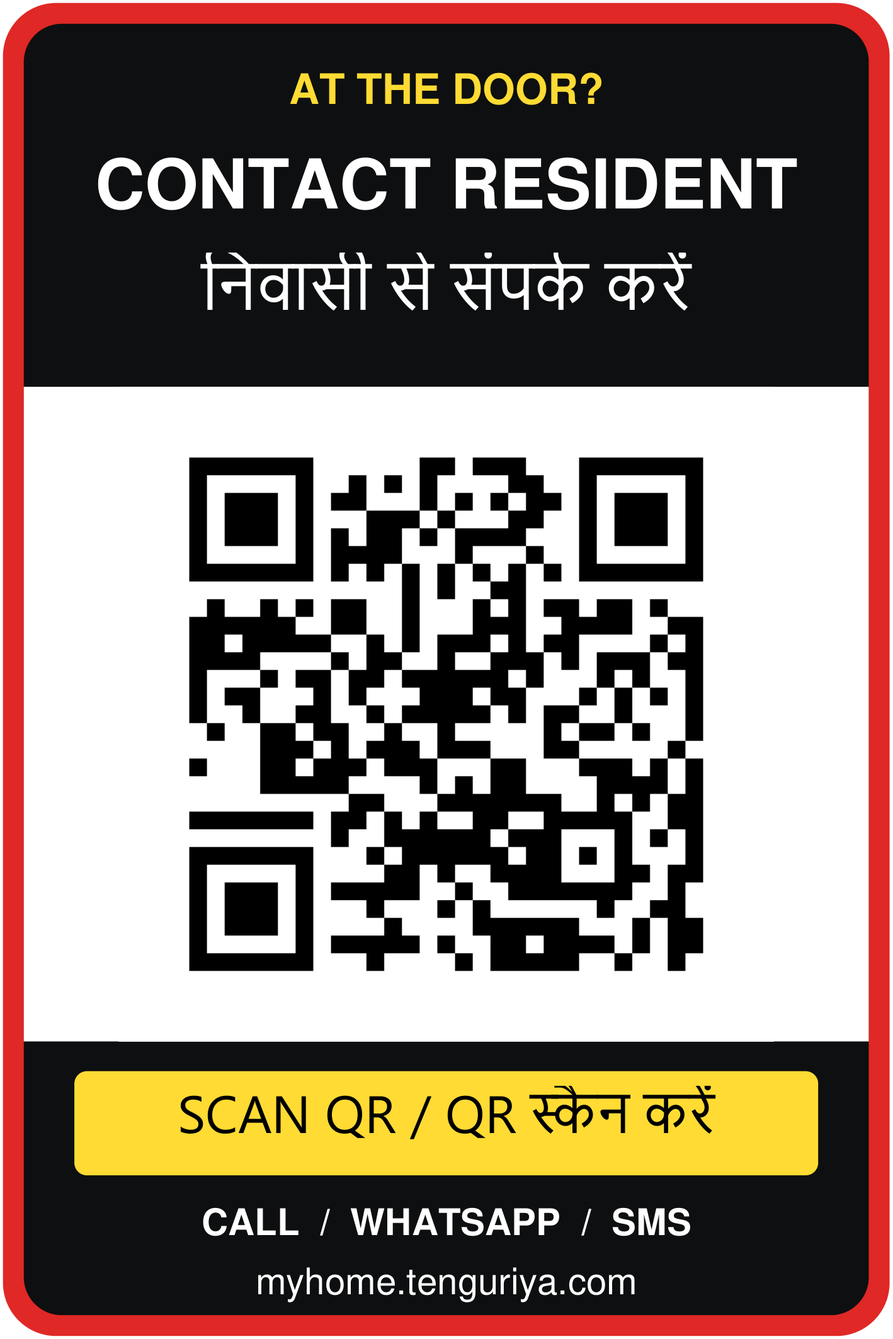
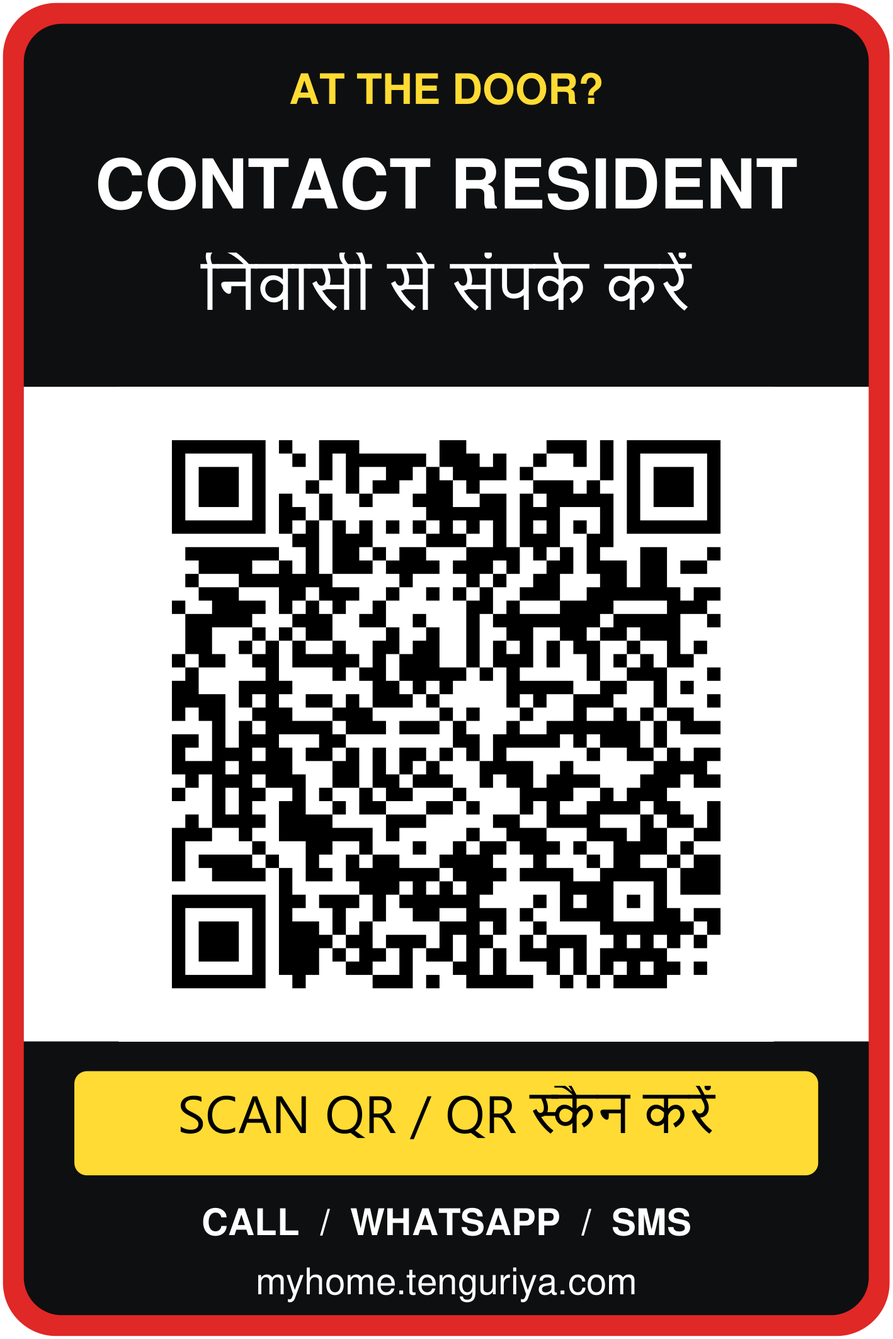
Require QR access key and regenerate home stickers

Changed region(s): [[0.1862, 0.3104, 0.8068, 0.7451]]

diff --git a/index.html b/index.html
@@ -1,6 +1,6 @@
-<!doctype html><html lang="en"><head><meta charset="utf-8"><meta name="viewport" content="width=device-width, initial-scale=1"><meta name="theme-color" content="#1536b8"><meta name="robots" content="noindex,nofollow"><meta name="description" content="Contact the resident for deliveries, visits, or home-related queries."><title>Home Contact · Harsh Tenguriya</title><style>:root{color-scheme:light;--blue:#1536b8;--ink:#142650;--green:#08733e;--lime:#def884;--muted:#46546f;--red:#a32d22}*{box-sizing:border-box}html{scroll-behavior:smooth;scroll-padding-top:20px}body{margin:0;padding:0 0 88px;background:#e9eefb;color:var(--ink);font-family:Arial,'Nirmala UI',sans-serif;font-size:16px;line-height:1.55}a,button,input,textarea{-webkit-tap-highlight-color:transparent}a,button{touch-action:manipulation}button,input,textarea{font:inherit}button{cursor:pointer}a:focus-visible,button:focus-visible,summary:focus-visible,input:focus-visible,textarea:focus-visible{outline:3px solid #ab6200;outline-offset:4px}button:disabled{cursor:wait;opacity:.65}[hidden]{display:none!important}.skip-link{position:fixed;left:12px;top:-100px;background:white;padding:12px;z-index:100;color:var(--blue)}.skip-link:focus{top:12px}main{max-width:1060px;margin:32px auto;background:white;border-radius:26px;overflow:hidden;box-shadow:0 20px 70px #14265018}.hero{background:var(--blue);color:white;padding:32px 44px 36px;position:relative}.topline{font-weight:700;font-size:12px;letter-spacing:2px}.intro{display:grid;grid-template-columns:minmax(0,1fr) 210px;align-items:center;gap:24px;margin-top:28px}h1{margin:0 0 16px;font-size:clamp(36px,6vw,66px);line-height:1.08;letter-spacing:-1.8px}h1 span{color:var(--lime)}.sub{font-size:22px;font-weight:600;margin:0;line-height:1.65}.car{width:100%;transform:rotate(-5deg)}.top-actions,.actions{display:grid;grid-template-columns:repeat(3,minmax(0,1fr));gap:12px}.top-actions{margin-top:28px;position:relative}.button{display:flex;align-items:center;justify-content:center;gap:11px;min-width:0;min-height:70px;padding:14px 12px;border:2px solid transparent;border-radius:14px;background:var(--blue);color:white;text-decoration:none;font-weight:700;text-align:left;line-height:1.35;transition:box-shadow .15s,transform .15s}.button span{min-width:0}.button strong{display:block;font-size:17px}.button small{display:block;font-size:13px;font-weight:500;margin-top:5px}.action-icon,.button svg{width:26px;height:26px;flex:0 0 26px}.whatsapp{background:var(--green);color:white}.sms{background:#e9efff;border-color:#b8c8ef;color:#16317d}.top-actions .button{background:white;color:#14317c;border-color:white}.top-actions .whatsapp{background:var(--lime);color:#133922;border-color:var(--lime)}.top-actions .sms{background:#e8efff;color:#14317c;border-color:#e8efff}@media(hover:hover){.button:hover{transform:translateY(-2px);box-shadow:0 6px 16px #14265030}}.body{padding:30px 44px}.owner{display:flex;gap:14px;align-items:center;margin-bottom:24px;min-width:0}.avatar{background:#edf1ff;color:var(--blue);width:54px;height:54px;flex:0 0 54px;border-radius:16px;display:grid;place-items:center;font-size:19px;font-weight:700}.label{font-size:12px;letter-spacing:1px;color:var(--muted);font-weight:700;margin-bottom:7px;line-height:1.6}.name{font-size:22px;font-weight:700;line-height:1.5}.name span{color:var(--muted);font-size:18px;font-weight:400}.vehicle{display:flex;justify-content:space-between;align-items:center;gap:22px;padding:20px;margin-bottom:24px;border:1px solid #d8e0ef;border-radius:16px;background:#f6f8ff}.vehicle>div{min-width:0}.vehicle-model{font-size:21px;font-weight:700}.vehicle-meta{font-size:15px;color:var(--muted);margin-top:5px}.electric{display:inline-block;margin-left:7px;background:#e2f3cf;color:#284918;border-radius:20px;padding:3px 10px;font-size:13px;font-weight:700}.plate{background:#007339;border:2px solid #005e2e;border-radius:8px;padding:9px 14px;white-space:nowrap;letter-spacing:1.5px;font-size:25px;font-weight:800;color:white}.vehicle-photo{margin:0 0 26px;border:1px solid #d8e0ef;border-radius:16px;overflow:hidden;text-align:center}.vehicle-photo img{width:100%;height:auto;max-height:330px;object-fit:contain;display:block}.vehicle-photo figcaption{background:#f6f8ff;padding:12px 16px;font-size:13px;color:var(--muted);line-height:1.7}.vehicle-photo small{font-size:12px}.vehicle-photo a{color:#1536a1;text-underline-offset:3px}.messages{display:grid;grid-template-columns:repeat(2,minmax(0,1fr));gap:28px;border-top:1px solid #d8e0ef;padding-top:24px}.messages p{font-size:17px;line-height:1.75;margin:0}.messages [lang=hi] p{font-size:18px}.lang{font-size:13px;letter-spacing:1.2px;color:var(--blue);margin:0 0 12px}.contact{margin-top:26px;padding:22px;background:#eff3ff;border:1px solid #d4def6;border-radius:18px}.contact .actions{margin-top:18px}.number{display:inline-block;max-width:100%;color:var(--ink);text-decoration:none;font-size:clamp(23px,4.5vw,30px);font-weight:800;letter-spacing:.1px;white-space:nowrap;line-height:1.4}.emergency{margin-top:22px;border:2px solid #d89b91;border-left:6px solid var(--red);padding:18px 20px;border-radius:16px;background:#fff5f2}.emergency summary{display:flex;justify-content:space-between;align-items:center;gap:12px;min-height:56px;cursor:pointer;list-style:none;color:#84251c;font-size:17px;font-weight:700;line-height:1.6}.emergency summary::-webkit-details-marker{display:none}.emergency-label{display:flex;gap:12px;align-items:center;min-width:0}.emergency-label .action-icon{width:28px;height:28px;flex:0 0 28px}.emergency-label span[lang]{font-size:15px}.accordion-icon{font-size:30px;line-height:1;flex:0 0 22px;text-align:center;transition:transform .2s}.emergency[open] .accordion-icon{transform:rotate(45deg)}.emergency-content{padding-top:12px}.emergency p{font-size:16px;line-height:1.7;margin:8px 0;color:#653b32}.emergency .contact{padding:0;background:transparent;border:0;margin-top:20px}.emergency .number{color:#84251c}.emergency .button:not(.whatsapp):not(.sms){background:var(--red)}.emergency .sms{background:white;border-color:#c98277;color:#84251c}footer{display:flex;justify-content:space-between;gap:16px;margin-top:26px;font-size:14px;line-height:1.7;color:var(--muted)}.heart{color:var(--blue);font-weight:700}.scroll-cue{position:fixed;bottom:18px;right:20px;z-index:10;display:flex;align-items:center;gap:14px;min-height:52px;padding:10px 18px;border:2px solid white;border-radius:30px;background:#142650;color:white;box-shadow:0 6px 24px #14265030;font-size:14px;font-weight:700;line-height:1.35}.scroll-cue small{font-size:12px;display:block;font-weight:400;margin-top:3px}.scroll-cue .arrow{font-size:26px;animation:nudge 1.8s infinite}@keyframes nudge{0%,100%{transform:translateY(-2px)}50%{transform:translateY(3px)}}dialog.wa-dialog{display:none;border:1px solid #c3cde1;border-radius:22px;padding:28px;width:calc(100% - 24px);max-width:500px;max-height:90vh;max-height:90dvh;overflow:auto;overscroll-behavior:contain;color:var(--ink);background:white;box-shadow:0 20px 80px #0005;margin:auto}dialog.wa-dialog[open]{display:block}dialog::backdrop{background:#091936b8}.wa-dialog h2{font-size:23px;line-height:1.5;margin:0 40px 14px 0;overflow-wrap:anywhere}.wa-dialog p{font-size:15px;line-height:1.7}.wa-dialog label{display:block;font-size:16px;font-weight:700;margin:18px 0 8px}.wa-dialog input,.wa-dialog textarea{width:100%;padding:13px;border:1.5px solid #7b8ba8;border-radius:9px;background:white;color:var(--ink);font-size:17px;line-height:1.6}.wa-dialog textarea{min-height:100px;resize:vertical}.wa-close{position:absolute;top:12px;right:12px;display:grid;place-items:center;min-width:44px;min-height:44px;border:1px solid #bac5da;border-radius:50%;background:#f1f4fb;color:var(--ink);font-size:28px;line-height:1}.wa-location{min-height:48px;padding:11px 14px;margin-top:15px;background:#edf2ff;border:1px solid #9eafd6;border-radius:10px;color:#17368b;font-size:15px;font-weight:700;line-height:1.5}.wa-status,.sms-help{font-size:14px!important;color:var(--muted);overflow-wrap:anywhere}.wa-remove{min-height:44px;border:0;background:white;color:#872c1e;font-size:14px;text-decoration:underline;padding:8px 0}.wa-controls{margin-top:20px;display:flex}.wa-controls .button{border:0;width:100%;font-size:17px;text-align:center;justify-content:center}.manual-copy{margin-top:12px}.fallback-open{position:fixed;inset:20px;z-index:99;outline:100vmax solid #091936b8}.modal-open{overflow:hidden}@media(max-width:760px){main{margin:16px;border-radius:22px}.hero{padding:26px}.intro{grid-template-columns:minmax(0,1fr);margin-top:24px}.car{display:none}.body{padding:26px}.name span{display:block}.vehicle{align-items:flex-start;flex-direction:column;gap:16px}.messages{grid-template-columns:minmax(0,1fr);gap:24px}.sub{font-size:21px}.vehicle-photo img{max-height:260px}footer{flex-direction:column;gap:7px}.button{gap:8px;padding:13px 8px}.button strong{font-size:16px}.button small{font-size:12px}.action-icon,.button svg{width:24px;height:24px;flex-basis:24px}}@media(max-width:560px){.top-actions .button,.actions .button{flex-direction:column;text-align:center;gap:8px;min-height:102px}.top-actions,.actions{gap:9px}.button strong{font-size:16px}.top-actions .button small,.actions .button small{font-size:12px}.top-actions .button span,.actions .button span{width:100%}.label{font-size:11px}.name{font-size:20px}.contact{padding:18px}.emergency{padding:16px}.vehicle-photo figcaption{padding:12px;font-size:12px}.vehicle-photo small{font-size:11px}dialog.wa-dialog{padding:22px}.scroll-cue{right:12px;bottom:12px;padding:9px 14px;font-size:13px}.scroll-cue small{font-size:11px}}@media(max-width:440px){main{margin:8px;border-radius:18px}.hero,.body{padding:20px 16px}h1{font-size:36px}.sub{font-size:19px}.top-actions,.actions{grid-template-columns:minmax(0,1fr);gap:10px}.top-actions .button,.actions .button{flex-direction:row;justify-content:flex-start;text-align:left;min-height:64px;padding:12px 18px;gap:14px}.top-actions .button span,.actions .button span{width:auto}.button strong{font-size:17px}.button small{font-size:13px!important}.vehicle{padding:16px}.plate{font-size:23px;padding:8px 10px;letter-spacing:1px}.number{font-size:24px}.contact{padding:16px}.emergency{padding:14px}.emergency-label{gap:8px}.emergency summary{font-size:16px}.emergency-label span[lang]{font-size:14px}dialog.wa-dialog{padding:20px 16px}.wa-dialog h2{font-size:20px}}@media(prefers-reduced-motion:reduce){html{scroll-behavior:auto}*,*::before,*::after{animation:none!important;transition:none!important}}@media(forced-colors:active){.button,.plate,.emergency{border:2px solid ButtonText}.button svg{forced-color-adjust:auto}}@media print{body{background:white;padding:0}main{margin:0;box-shadow:none;max-width:none}.hero,.button,.plate,.contact{-webkit-print-color-adjust:exact;print-color-adjust:exact}.top-actions,.scroll-cue,.skip-link{display:none}.vehicle-photo img{max-height:160px}dialog{display:none!important}@page{size:A4;margin:12mm}}
+<!doctype html><html lang="en"><head><meta charset="utf-8"><meta name="viewport" content="width=device-width, initial-scale=1"><meta name="theme-color" content="#1536b8"><meta name="referrer" content="no-referrer"><meta name="robots" content="noindex,nofollow"><meta name="description" content="Contact the resident for deliveries, visits, or home-related queries."><title>Home Contact · Harsh Tenguriya</title><style>:root{color-scheme:light;--blue:#1536b8;--ink:#142650;--green:#08733e;--lime:#def884;--muted:#46546f;--red:#a32d22}*{box-sizing:border-box}html{scroll-behavior:smooth;scroll-padding-top:20px}body{margin:0;padding:0 0 88px;background:#e9eefb;color:var(--ink);font-family:Arial,'Nirmala UI',sans-serif;font-size:16px;line-height:1.55}a,button,input,textarea{-webkit-tap-highlight-color:transparent}a,button{touch-action:manipulation}button,input,textarea{font:inherit}button{cursor:pointer}a:focus-visible,button:focus-visible,summary:focus-visible,input:focus-visible,textarea:focus-visible{outline:3px solid #ab6200;outline-offset:4px}button:disabled{cursor:wait;opacity:.65}[hidden]{display:none!important}.skip-link{position:fixed;left:12px;top:-100px;background:white;padding:12px;z-index:100;color:var(--blue)}.skip-link:focus{top:12px}main{max-width:1060px;margin:32px auto;background:white;border-radius:26px;overflow:hidden;box-shadow:0 20px 70px #14265018}.hero{background:var(--blue);color:white;padding:32px 44px 36px;position:relative}.topline{font-weight:700;font-size:12px;letter-spacing:2px}.intro{display:grid;grid-template-columns:minmax(0,1fr) 210px;align-items:center;gap:24px;margin-top:28px}h1{margin:0 0 16px;font-size:clamp(36px,6vw,66px);line-height:1.08;letter-spacing:-1.8px}h1 span{color:var(--lime)}.sub{font-size:22px;font-weight:600;margin:0;line-height:1.65}.car{width:100%;transform:rotate(-5deg)}.top-actions,.actions{display:grid;grid-template-columns:repeat(3,minmax(0,1fr));gap:12px}.top-actions{margin-top:28px;position:relative}.button{display:flex;align-items:center;justify-content:center;gap:11px;min-width:0;min-height:70px;padding:14px 12px;border:2px solid transparent;border-radius:14px;background:var(--blue);color:white;text-decoration:none;font-weight:700;text-align:left;line-height:1.35;transition:box-shadow .15s,transform .15s}.button span{min-width:0}.button strong{display:block;font-size:17px}.button small{display:block;font-size:13px;font-weight:500;margin-top:5px}.action-icon,.button svg{width:26px;height:26px;flex:0 0 26px}.whatsapp{background:var(--green);color:white}.sms{background:#e9efff;border-color:#b8c8ef;color:#16317d}.top-actions .button{background:white;color:#14317c;border-color:white}.top-actions .whatsapp{background:var(--lime);color:#133922;border-color:var(--lime)}.top-actions .sms{background:#e8efff;color:#14317c;border-color:#e8efff}@media(hover:hover){.button:hover{transform:translateY(-2px);box-shadow:0 6px 16px #14265030}}.body{padding:30px 44px}.owner{display:flex;gap:14px;align-items:center;margin-bottom:24px;min-width:0}.avatar{background:#edf1ff;color:var(--blue);width:54px;height:54px;flex:0 0 54px;border-radius:16px;display:grid;place-items:center;font-size:19px;font-weight:700}.label{font-size:12px;letter-spacing:1px;color:var(--muted);font-weight:700;margin-bottom:7px;line-height:1.6}.name{font-size:22px;font-weight:700;line-height:1.5}.name span{color:var(--muted);font-size:18px;font-weight:400}.vehicle{display:flex;justify-content:space-between;align-items:center;gap:22px;padding:20px;margin-bottom:24px;border:1px solid #d8e0ef;border-radius:16px;background:#f6f8ff}.vehicle>div{min-width:0}.vehicle-model{font-size:21px;font-weight:700}.vehicle-meta{font-size:15px;color:var(--muted);margin-top:5px}.electric{display:inline-block;margin-left:7px;background:#e2f3cf;color:#284918;border-radius:20px;padding:3px 10px;font-size:13px;font-weight:700}.plate{background:#007339;border:2px solid #005e2e;border-radius:8px;padding:9px 14px;white-space:nowrap;letter-spacing:1.5px;font-size:25px;font-weight:800;color:white}.vehicle-photo{margin:0 0 26px;border:1px solid #d8e0ef;border-radius:16px;overflow:hidden;text-align:center}.vehicle-photo img{width:100%;height:auto;max-height:330px;object-fit:contain;display:block}.vehicle-photo figcaption{background:#f6f8ff;padding:12px 16px;font-size:13px;color:var(--muted);line-height:1.7}.vehicle-photo small{font-size:12px}.vehicle-photo a{color:#1536a1;text-underline-offset:3px}.messages{display:grid;grid-template-columns:repeat(2,minmax(0,1fr));gap:28px;border-top:1px solid #d8e0ef;padding-top:24px}.messages p{font-size:17px;line-height:1.75;margin:0}.messages [lang=hi] p{font-size:18px}.lang{font-size:13px;letter-spacing:1.2px;color:var(--blue);margin:0 0 12px}.contact{margin-top:26px;padding:22px;background:#eff3ff;border:1px solid #d4def6;border-radius:18px}.contact .actions{margin-top:18px}.number{display:inline-block;max-width:100%;color:var(--ink);text-decoration:none;font-size:clamp(23px,4.5vw,30px);font-weight:800;letter-spacing:.1px;white-space:nowrap;line-height:1.4}.emergency{margin-top:22px;border:2px solid #d89b91;border-left:6px solid var(--red);padding:18px 20px;border-radius:16px;background:#fff5f2}.emergency summary{display:flex;justify-content:space-between;align-items:center;gap:12px;min-height:56px;cursor:pointer;list-style:none;color:#84251c;font-size:17px;font-weight:700;line-height:1.6}.emergency summary::-webkit-details-marker{display:none}.emergency-label{display:flex;gap:12px;align-items:center;min-width:0}.emergency-label .action-icon{width:28px;height:28px;flex:0 0 28px}.emergency-label span[lang]{font-size:15px}.accordion-icon{font-size:30px;line-height:1;flex:0 0 22px;text-align:center;transition:transform .2s}.emergency[open] .accordion-icon{transform:rotate(45deg)}.emergency-content{padding-top:12px}.emergency p{font-size:16px;line-height:1.7;margin:8px 0;color:#653b32}.emergency .contact{padding:0;background:transparent;border:0;margin-top:20px}.emergency .number{color:#84251c}.emergency .button:not(.whatsapp):not(.sms){background:var(--red)}.emergency .sms{background:white;border-color:#c98277;color:#84251c}footer{display:flex;justify-content:space-between;gap:16px;margin-top:26px;font-size:14px;line-height:1.7;color:var(--muted)}.heart{color:var(--blue);font-weight:700}.scroll-cue{position:fixed;bottom:18px;right:20px;z-index:10;display:flex;align-items:center;gap:14px;min-height:52px;padding:10px 18px;border:2px solid white;border-radius:30px;background:#142650;color:white;box-shadow:0 6px 24px #14265030;font-size:14px;font-weight:700;line-height:1.35}.scroll-cue small{font-size:12px;display:block;font-weight:400;margin-top:3px}.scroll-cue .arrow{font-size:26px;animation:nudge 1.8s infinite}@keyframes nudge{0%,100%{transform:translateY(-2px)}50%{transform:translateY(3px)}}dialog.wa-dialog{display:none;border:1px solid #c3cde1;border-radius:22px;padding:28px;width:calc(100% - 24px);max-width:500px;max-height:90vh;max-height:90dvh;overflow:auto;overscroll-behavior:contain;color:var(--ink);background:white;box-shadow:0 20px 80px #0005;margin:auto}dialog.wa-dialog[open]{display:block}dialog::backdrop{background:#091936b8}.wa-dialog h2{font-size:23px;line-height:1.5;margin:0 40px 14px 0;overflow-wrap:anywhere}.wa-dialog p{font-size:15px;line-height:1.7}.wa-dialog label{display:block;font-size:16px;font-weight:700;margin:18px 0 8px}.wa-dialog input,.wa-dialog textarea{width:100%;padding:13px;border:1.5px solid #7b8ba8;border-radius:9px;background:white;color:var(--ink);font-size:17px;line-height:1.6}.wa-dialog textarea{min-height:100px;resize:vertical}.wa-close{position:absolute;top:12px;right:12px;display:grid;place-items:center;min-width:44px;min-height:44px;border:1px solid #bac5da;border-radius:50%;background:#f1f4fb;color:var(--ink);font-size:28px;line-height:1}.wa-location{min-height:48px;padding:11px 14px;margin-top:15px;background:#edf2ff;border:1px solid #9eafd6;border-radius:10px;color:#17368b;font-size:15px;font-weight:700;line-height:1.5}.wa-status,.sms-help{font-size:14px!important;color:var(--muted);overflow-wrap:anywhere}.wa-remove{min-height:44px;border:0;background:white;color:#872c1e;font-size:14px;text-decoration:underline;padding:8px 0}.wa-controls{margin-top:20px;display:flex}.wa-controls .button{border:0;width:100%;font-size:17px;text-align:center;justify-content:center}.manual-copy{margin-top:12px}.fallback-open{position:fixed;inset:20px;z-index:99;outline:100vmax solid #091936b8}.modal-open{overflow:hidden}@media(max-width:760px){main{margin:16px;border-radius:22px}.hero{padding:26px}.intro{grid-template-columns:minmax(0,1fr);margin-top:24px}.car{display:none}.body{padding:26px}.name span{display:block}.vehicle{align-items:flex-start;flex-direction:column;gap:16px}.messages{grid-template-columns:minmax(0,1fr);gap:24px}.sub{font-size:21px}.vehicle-photo img{max-height:260px}footer{flex-direction:column;gap:7px}.button{gap:8px;padding:13px 8px}.button strong{font-size:16px}.button small{font-size:12px}.action-icon,.button svg{width:24px;height:24px;flex-basis:24px}}@media(max-width:560px){.top-actions .button,.actions .button{flex-direction:column;text-align:center;gap:8px;min-height:102px}.top-actions,.actions{gap:9px}.button strong{font-size:16px}.top-actions .button small,.actions .button small{font-size:12px}.top-actions .button span,.actions .button span{width:100%}.label{font-size:11px}.name{font-size:20px}.contact{padding:18px}.emergency{padding:16px}.vehicle-photo figcaption{padding:12px;font-size:12px}.vehicle-photo small{font-size:11px}dialog.wa-dialog{padding:22px}.scroll-cue{right:12px;bottom:12px;padding:9px 14px;font-size:13px}.scroll-cue small{font-size:11px}}@media(max-width:440px){main{margin:8px;border-radius:18px}.hero,.body{padding:20px 16px}h1{font-size:36px}.sub{font-size:19px}.top-actions,.actions{grid-template-columns:minmax(0,1fr);gap:10px}.top-actions .button,.actions .button{flex-direction:row;justify-content:flex-start;text-align:left;min-height:64px;padding:12px 18px;gap:14px}.top-actions .button span,.actions .button span{width:auto}.button strong{font-size:17px}.button small{font-size:13px!important}.vehicle{padding:16px}.plate{font-size:23px;padding:8px 10px;letter-spacing:1px}.number{font-size:24px}.contact{padding:16px}.emergency{padding:14px}.emergency-label{gap:8px}.emergency summary{font-size:16px}.emergency-label span[lang]{font-size:14px}dialog.wa-dialog{padding:20px 16px}.wa-dialog h2{font-size:20px}}@media(prefers-reduced-motion:reduce){html{scroll-behavior:auto}*,*::before,*::after{animation:none!important;transition:none!important}}@media(forced-colors:active){.button,.plate,.emergency{border:2px solid ButtonText}.button svg{forced-color-adjust:auto}}@media print{body{background:white;padding:0}main{margin:0;box-shadow:none;max-width:none}.hero,.button,.plate,.contact{-webkit-print-color-adjust:exact;print-color-adjust:exact}.top-actions,.scroll-cue,.skip-link{display:none}.vehicle-photo img{max-height:160px}dialog{display:none!important}@page{size:A4;margin:12mm}}
 
-.home-illustration{width:100%;max-width:210px;justify-self:center}.top-actions>.actions{display:contents}.visit-note{padding:20px;background:#f1f5ff;border:1px solid #d4def6;border-radius:16px;margin:0 0 26px;font-size:17px;line-height:1.7}.visit-note p{margin:5px 0}.resident-badge{display:inline-block;font-size:12px;font-weight:700;letter-spacing:1px;color:#174b2e;background:#e3f3da;border-radius:20px;padding:6px 12px;margin-top:12px}@media(max-width:760px){.home-illustration{display:none}}</style></head><body><a class="skip-link" href="#home-details">Skip to contact details / संपर्क जानकारी</a><main><header class="hero"><div class="topline">HOME CONTACT · घर पर संपर्क</div><div class="intro"><div><h1>At the door?<br><span>Get in touch.</span></h1><p class="sub" lang="hi">दरवाज़े पर हैं? संपर्क करें।</p></div><svg class="home-illustration" viewBox="0 0 210 180" fill="none" aria-hidden="true"><ellipse cx="105" cy="163" rx="90" ry="10" fill="#0b2488"/><path d="M27 78 105 16l78 62" stroke="#def884" stroke-width="15" stroke-linecap="round" stroke-linejoin="round"/><path d="M40 78v76h130V78L105 27Z" fill="#f0f4ff"/><rect x="83" y="83" width="46" height="71" rx="5" fill="#1536b8"/><circle cx="117" cy="121" r="3" fill="#def884"/><rect x="52" y="89" width="21" height="27" rx="4" fill="#bdd0fa"/><rect x="140" y="89" width="17" height="29" rx="7" fill="#def884"/><circle cx="148.5" cy="103" r="4" fill="#1536b8"/></svg></div><nav class="top-actions" aria-label="Contact resident"><div class="actions"><a class="button call"  href="tel:+919462828205"><svg class="action-icon" viewBox="0 0 24 24" fill="none" stroke="currentColor" stroke-width="1.9" stroke-linecap="round" stroke-linejoin="round" aria-hidden="true" focusable="false"><path d="M21 16.4v3a2 2 0 0 1-2.2 2A19.7 19.7 0 0 1 3 5.2 2 2 0 0 1 5 3h3a1 1 0 0 1 1 .9c.1 1 .4 2 .8 2.9a1 1 0 0 1-.2 1.1L8.2 9.3a16 16 0 0 0 6.5 6.5l1.4-1.4a1 1 0 0 1 1.1-.2c.9.4 1.9.7 2.9.8a1 1 0 0 1 .9 1.4Z"/></svg><span><strong>Call</strong><small lang="hi">कॉल करें</small></span></a><a class="button whatsapp" data-wa-phone="919462828205" href="https://wa.me/919462828205?text=Hello%20Harsh%2C%20I%20am%20at%20your%20home%E2%80%99s%20door%20and%20would%20like%20to%20get%20in%20touch%20regarding%20a%20delivery%2C%20visit%2C%20or%20home-related%20query.%0A%E0%A4%A8%E0%A4%AE%E0%A4%B8%E0%A5%8D%E0%A4%A4%E0%A5%87%20%E0%A4%B9%E0%A4%B0%E0%A5%8D%E0%A4%B7%2C%20%E0%A4%AE%E0%A5%88%E0%A4%82%20%E0%A4%86%E0%A4%AA%E0%A4%95%E0%A5%87%20%E0%A4%98%E0%A4%B0%20%E0%A4%95%E0%A5%87%20%E0%A4%A6%E0%A4%B0%E0%A4%B5%E0%A4%BE%E0%A4%9C%E0%A4%BC%E0%A5%87%20%E0%A4%AA%E0%A4%B0%20%E0%A4%B9%E0%A5%82%E0%A4%81%20%E0%A4%94%E0%A4%B0%20%E0%A4%A1%E0%A4%BF%E0%A4%B2%E0%A5%80%E0%A4%B5%E0%A4%B0%E0%A5%80%2C%20%E0%A4%AE%E0%A4%BF%E0%A4%B2%E0%A4%A8%E0%A5%87%20%E0%A4%AF%E0%A4%BE%20%E0%A4%98%E0%A4%B0%20%E0%A4%B8%E0%A5%87%20%E0%A4%B8%E0%A4%82%E0%A4%AC%E0%A4%82%E0%A4%A7%E0%A4%BF%E0%A4%A4%20%E0%A4%95%E0%A4%BF%E0%A4%B8%E0%A5%80%20%E0%A4%9C%E0%A4%BE%E0%A4%A8%E0%A4%95%E0%A4%BE%E0%A4%B0%E0%A5%80%20%E0%A4%95%E0%A5%87%20%E0%A4%B2%E0%A4%BF%E0%A4%8F%20%E0%A4%B8%E0%A4%82%E0%A4%AA%E0%A4%B0%E0%A5%8D%E0%A4%95%20%E0%A4%95%E0%A4%B0%E0%A4%A8%E0%A4%BE%20%E0%A4%9A%E0%A4%BE%E0%A4%B9%E0%A4%A4%E0%A4%BE%2F%E0%A4%9A%E0%A4%BE%E0%A4%B9%E0%A4%A4%E0%A5%80%20%E0%A4%B9%E0%A5%82%E0%A4%81%E0%A5%A4"><svg class="action-icon" viewBox="0 0 24 24" fill="none" stroke="currentColor" stroke-width="1.9" stroke-linecap="round" stroke-linejoin="round" aria-hidden="true" focusable="false"><path d="M20.5 11.7a8.5 8.5 0 0 1-12.6 7.5L3 20.5l1.3-4.8A8.5 8.5 0 1 1 20.5 11.7Z"/><path d="m8.5 7.5 1.3 2-1 1.2a9 9 0 0 0 4.2 4.1l1.2-1 2 1.2q-1 2.8-3.4 1.4-5-2-6-6-.5-2 1.7-2.9Z"/></svg><span><strong>WhatsApp</strong><small lang="hi">संदेश भेजें</small></span></a><a class="button sms" data-sms-phone="919462828205" href="sms:+919462828205?body=Hello%20Harsh%2C%20I%20am%20at%20your%20home%E2%80%99s%20door%20and%20would%20like%20to%20get%20in%20touch%20regarding%20a%20delivery%2C%20visit%2C%20or%20home-related%20query.%0A%E0%A4%A8%E0%A4%AE%E0%A4%B8%E0%A5%8D%E0%A4%A4%E0%A5%87%20%E0%A4%B9%E0%A4%B0%E0%A5%8D%E0%A4%B7%2C%20%E0%A4%AE%E0%A5%88%E0%A4%82%20%E0%A4%86%E0%A4%AA%E0%A4%95%E0%A5%87%20%E0%A4%98%E0%A4%B0%20%E0%A4%95%E0%A5%87%20%E0%A4%A6%E0%A4%B0%E0%A4%B5%E0%A4%BE%E0%A4%9C%E0%A4%BC%E0%A5%87%20%E0%A4%AA%E0%A4%B0%20%E0%A4%B9%E0%A5%82%E0%A4%81%20%E0%A4%94%E0%A4%B0%20%E0%A4%A1%E0%A4%BF%E0%A4%B2%E0%A5%80%E0%A4%B5%E0%A4%B0%E0%A5%80%2C%20%E0%A4%AE%E0%A4%BF%E0%A4%B2%E0%A4%A8%E0%A5%87%20%E0%A4%AF%E0%A4%BE%20%E0%A4%98%E0%A4%B0%20%E0%A4%B8%E0%A5%87%20%E0%A4%B8%E0%A4%82%E0%A4%AC%E0%A4%82%E0%A4%A7%E0%A4%BF%E0%A4%A4%20%E0%A4%95%E0%A4%BF%E0%A4%B8%E0%A5%80%20%E0%A4%9C%E0%A4%BE%E0%A4%A8%E0%A4%95%E0%A4%BE%E0%A4%B0%E0%A5%80%20%E0%A4%95%E0%A5%87%20%E0%A4%B2%E0%A4%BF%E0%A4%8F%20%E0%A4%B8%E0%A4%82%E0%A4%AA%E0%A4%B0%E0%A5%8D%E0%A4%95%20%E0%A4%95%E0%A4%B0%E0%A4%A8%E0%A4%BE%20%E0%A4%9A%E0%A4%BE%E0%A4%B9%E0%A4%A4%E0%A4%BE%2F%E0%A4%9A%E0%A4%BE%E0%A4%B9%E0%A4%A4%E0%A5%80%20%E0%A4%B9%E0%A5%82%E0%A4%81%E0%A5%A4"><svg class="action-icon" viewBox="0 0 24 24" fill="none" stroke="currentColor" stroke-width="1.9" stroke-linecap="round" stroke-linejoin="round" aria-hidden="true" focusable="false"><path d="M21 14a3 3 0 0 1-3 3H9l-6 4V6a3 3 0 0 1 3-3h12a3 3 0 0 1 3 3Z"/><path d="M7 8h10M7 12h7"/></svg><span><strong>SMS</strong><small lang="hi">SMS भेजें</small></span></a></div></nav></header><section class="body" id="home-details"><div class="owner"><div class="avatar" aria-hidden="true">HT</div><div><div class="label">CONTACT RESIDENT · निवासी से संपर्क करें</div><div class="name">Harsh Tenguriya<span lang="hi"> / हर्ष तेंगुरिया</span></div></div></div><div class="visit-note"><p><b>For deliveries, visits, or a question about this home.</b></p><p lang="hi">डिलीवरी, मिलने या इस घर से जुड़ी जानकारी के लिए संपर्क करें।</p></div><div class="messages"><section><h2 class="lang">HELLO THERE!</h2><p>If you’re at my door and need to reach me, please call, WhatsApp, or send an SMS. You can add your name and a short message before opening your messaging app.</p></section><section lang="hi"><h2 class="lang">नमस्ते!</h2><p>यदि आप मेरे घर के दरवाज़े पर हैं और मुझसे बात करना चाहते हैं, तो कृपया कॉल करें, WhatsApp या SMS भेजें। संदेश भेजने से पहले अपना नाम और आने का कारण लिख सकते हैं।</p></section></div><section class="contact" aria-label="Resident contact options"><div class="label">CALL, WHATSAPP OR SMS · कॉल या संदेश</div><a class="number" href="tel:+919462828205">+91 94628 28205</a><div class="actions"><a class="button call"  href="tel:+919462828205"><svg class="action-icon" viewBox="0 0 24 24" fill="none" stroke="currentColor" stroke-width="1.9" stroke-linecap="round" stroke-linejoin="round" aria-hidden="true" focusable="false"><path d="M21 16.4v3a2 2 0 0 1-2.2 2A19.7 19.7 0 0 1 3 5.2 2 2 0 0 1 5 3h3a1 1 0 0 1 1 .9c.1 1 .4 2 .8 2.9a1 1 0 0 1-.2 1.1L8.2 9.3a16 16 0 0 0 6.5 6.5l1.4-1.4a1 1 0 0 1 1.1-.2c.9.4 1.9.7 2.9.8a1 1 0 0 1 .9 1.4Z"/></svg><span><strong>Call</strong><small lang="hi">कॉल करें</small></span></a><a class="button whatsapp" data-wa-phone="919462828205" href="https://wa.me/919462828205?text=Hello%20Harsh%2C%20I%20am%20at%20your%20home%E2%80%99s%20door%20and%20would%20like%20to%20get%20in%20touch%20regarding%20a%20delivery%2C%20visit%2C%20or%20home-related%20query.%0A%E0%A4%A8%E0%A4%AE%E0%A4%B8%E0%A5%8D%E0%A4%A4%E0%A5%87%20%E0%A4%B9%E0%A4%B0%E0%A5%8D%E0%A4%B7%2C%20%E0%A4%AE%E0%A5%88%E0%A4%82%20%E0%A4%86%E0%A4%AA%E0%A4%95%E0%A5%87%20%E0%A4%98%E0%A4%B0%20%E0%A4%95%E0%A5%87%20%E0%A4%A6%E0%A4%B0%E0%A4%B5%E0%A4%BE%E0%A4%9C%E0%A4%BC%E0%A5%87%20%E0%A4%AA%E0%A4%B0%20%E0%A4%B9%E0%A5%82%E0%A4%81%20%E0%A4%94%E0%A4%B0%20%E0%A4%A1%E0%A4%BF%E0%A4%B2%E0%A5%80%E0%A4%B5%E0%A4%B0%E0%A5%80%2C%20%E0%A4%AE%E0%A4%BF%E0%A4%B2%E0%A4%A8%E0%A5%87%20%E0%A4%AF%E0%A4%BE%20%E0%A4%98%E0%A4%B0%20%E0%A4%B8%E0%A5%87%20%E0%A4%B8%E0%A4%82%E0%A4%AC%E0%A4%82%E0%A4%A7%E0%A4%BF%E0%A4%A4%20%E0%A4%95%E0%A4%BF%E0%A4%B8%E0%A5%80%20%E0%A4%9C%E0%A4%BE%E0%A4%A8%E0%A4%95%E0%A4%BE%E0%A4%B0%E0%A5%80%20%E0%A4%95%E0%A5%87%20%E0%A4%B2%E0%A4%BF%E0%A4%8F%20%E0%A4%B8%E0%A4%82%E0%A4%AA%E0%A4%B0%E0%A5%8D%E0%A4%95%20%E0%A4%95%E0%A4%B0%E0%A4%A8%E0%A4%BE%20%E0%A4%9A%E0%A4%BE%E0%A4%B9%E0%A4%A4%E0%A4%BE%2F%E0%A4%9A%E0%A4%BE%E0%A4%B9%E0%A4%A4%E0%A5%80%20%E0%A4%B9%E0%A5%82%E0%A4%81%E0%A5%A4"><svg class="action-icon" viewBox="0 0 24 24" fill="none" stroke="currentColor" stroke-width="1.9" stroke-linecap="round" stroke-linejoin="round" aria-hidden="true" focusable="false"><path d="M20.5 11.7a8.5 8.5 0 0 1-12.6 7.5L3 20.5l1.3-4.8A8.5 8.5 0 1 1 20.5 11.7Z"/><path d="m8.5 7.5 1.3 2-1 1.2a9 9 0 0 0 4.2 4.1l1.2-1 2 1.2q-1 2.8-3.4 1.4-5-2-6-6-.5-2 1.7-2.9Z"/></svg><span><strong>WhatsApp</strong><small lang="hi">संदेश भेजें</small></span></a><a class="button sms" data-sms-phone="919462828205" href="sms:+919462828205?body=Hello%20Harsh%2C%20I%20am%20at%20your%20home%E2%80%99s%20door%20and%20would%20like%20to%20get%20in%20touch%20regarding%20a%20delivery%2C%20visit%2C%20or%20home-related%20query.%0A%E0%A4%A8%E0%A4%AE%E0%A4%B8%E0%A5%8D%E0%A4%A4%E0%A5%87%20%E0%A4%B9%E0%A4%B0%E0%A5%8D%E0%A4%B7%2C%20%E0%A4%AE%E0%A5%88%E0%A4%82%20%E0%A4%86%E0%A4%AA%E0%A4%95%E0%A5%87%20%E0%A4%98%E0%A4%B0%20%E0%A4%95%E0%A5%87%20%E0%A4%A6%E0%A4%B0%E0%A4%B5%E0%A4%BE%E0%A4%9C%E0%A4%BC%E0%A5%87%20%E0%A4%AA%E0%A4%B0%20%E0%A4%B9%E0%A5%82%E0%A4%81%20%E0%A4%94%E0%A4%B0%20%E0%A4%A1%E0%A4%BF%E0%A4%B2%E0%A5%80%E0%A4%B5%E0%A4%B0%E0%A5%80%2C%20%E0%A4%AE%E0%A4%BF%E0%A4%B2%E0%A4%A8%E0%A5%87%20%E0%A4%AF%E0%A4%BE%20%E0%A4%98%E0%A4%B0%20%E0%A4%B8%E0%A5%87%20%E0%A4%B8%E0%A4%82%E0%A4%AC%E0%A4%82%E0%A4%A7%E0%A4%BF%E0%A4%A4%20%E0%A4%95%E0%A4%BF%E0%A4%B8%E0%A5%80%20%E0%A4%9C%E0%A4%BE%E0%A4%A8%E0%A4%95%E0%A4%BE%E0%A4%B0%E0%A5%80%20%E0%A4%95%E0%A5%87%20%E0%A4%B2%E0%A4%BF%E0%A4%8F%20%E0%A4%B8%E0%A4%82%E0%A4%AA%E0%A4%B0%E0%A5%8D%E0%A4%95%20%E0%A4%95%E0%A4%B0%E0%A4%A8%E0%A4%BE%20%E0%A4%9A%E0%A4%BE%E0%A4%B9%E0%A4%A4%E0%A4%BE%2F%E0%A4%9A%E0%A4%BE%E0%A4%B9%E0%A4%A4%E0%A5%80%20%E0%A4%B9%E0%A5%82%E0%A4%81%E0%A5%A4"><svg class="action-icon" viewBox="0 0 24 24" fill="none" stroke="currentColor" stroke-width="1.9" stroke-linecap="round" stroke-linejoin="round" aria-hidden="true" focusable="false"><path d="M21 14a3 3 0 0 1-3 3H9l-6 4V6a3 3 0 0 1 3-3h12a3 3 0 0 1 3 3Z"/><path d="M7 8h10M7 12h7"/></svg><span><strong>SMS</strong><small lang="hi">SMS भेजें</small></span></a></div></section><footer><span class="heart">Thank you for visiting.</span><span lang="hi">आने के लिए धन्यवाद।</span></footer></section></main><button class="scroll-cue" type="button" aria-label="Scroll down to see more of the page"><span>More below<small lang="hi">नीचे और देखें</small></span><span class="arrow" aria-hidden="true">↓</span></button><dialog class="wa-dialog" aria-labelledby="wa-heading"><button class="wa-close" type="button" aria-label="Close">×</button><h2 id="wa-heading">Message the resident</h2><p class="contact-intro">Add your name and location if you wish. You will review and send the message in WhatsApp.<br><span lang="hi">चाहें तो अपना नाम और स्थान जोड़ें। संदेश WhatsApp में देखकर भेजें।</span></p><label for="wa-name">Your name / आपका नाम (optional)</label><input id="wa-name" autocomplete="name" maxlength="100"><label for="wa-note">Reason for your visit / आने का कारण (optional)</label><textarea id="wa-note" maxlength="1500"></textarea><button class="wa-location" type="button">Add my location / मेरा स्थान जोड़ें</button><p class="wa-status" role="status" aria-live="polite">Location is shared only if you allow it. / स्थान केवल आपकी अनुमति से जोड़ा जाएगा।</p><button class="wa-remove" type="button" hidden>Remove location / स्थान हटाएँ</button><p class="sms-help" hidden>SMS support varies by phone. If the message is missing, copy it and paste into your SMS app. / संदेश न दिखे तो कॉपी करके SMS ऐप में पेस्ट करें।</p><button class="wa-location copy-message" type="button">Copy message / संदेश कॉपी करें</button><textarea class="manual-copy" aria-label="Message to copy" readonly hidden></textarea><div class="wa-controls"><button class="button whatsapp wa-continue" type="button">Continue to WhatsApp ↗</button></div></dialog><script>const cue=document.querySelector('.scroll-cue');function updateCue(){cue.hidden=document.documentElement.scrollHeight-window.innerHeight-window.scrollY<65}cue.addEventListener('click',()=>window.scrollBy({top:Math.max(240,window.innerHeight*.7),behavior:window.matchMedia('(prefers-reduced-motion: reduce)').matches?'instant':'smooth'}));window.addEventListener('scroll',updateCue,{passive:true});window.addEventListener('resize',updateCue);window.addEventListener('load',updateCue);updateCue();</script><script>(()=>{
[1 lines of base64/hex data omitted]
  const $=s=>document.querySelector(s),dlg=$('.wa-dialog'),name=$('#wa-name'),note=$('#wa-note'),loc=$('.wa-location'),status=$('.wa-status'),remove=$('.wa-remove');
  const base={"919462828205":"Hello Harsh, I am at your home’s door and would like to get in touch regarding a delivery, visit, or home-related query.\nनमस्ते हर्ष, मैं आपके घर के दरवाज़े पर हूँ और डिलीवरी, मिलने या घर से संबंधित किसी जानकारी के लिए संपर्क करना चाहता/चाहती हूँ।"};
  let phone='',mode='wa',location=null,generation=0,trigger=null;

diff --git a/README.md b/README.md
@@ -22,3 +22,7 @@ The home subdomain has not been activated as part of this branch-preparation tas
 `site-config.json` records the chosen domain and contact settings. This buildless page embeds its current wording and links in `index.html`; editing the JSON alone does not change the page. No data is saved to a server. The visitor reviews and sends the message in their own app. SMS support varies by device; the Copy message option is provided as a fallback.
 
 The contact number is included in the page's links and source. This is a public contact page, not an anonymous relay service. No household address or directions are published.
+
+## QR access gate
+The current page requires the random key query parameter embedded in the updated sticker QR. Plain and incorrect links show scan instructions. This is a client-side convenience gate, not secure authentication; copied QR links also work. The contact data remains in the static HTML source.
+
